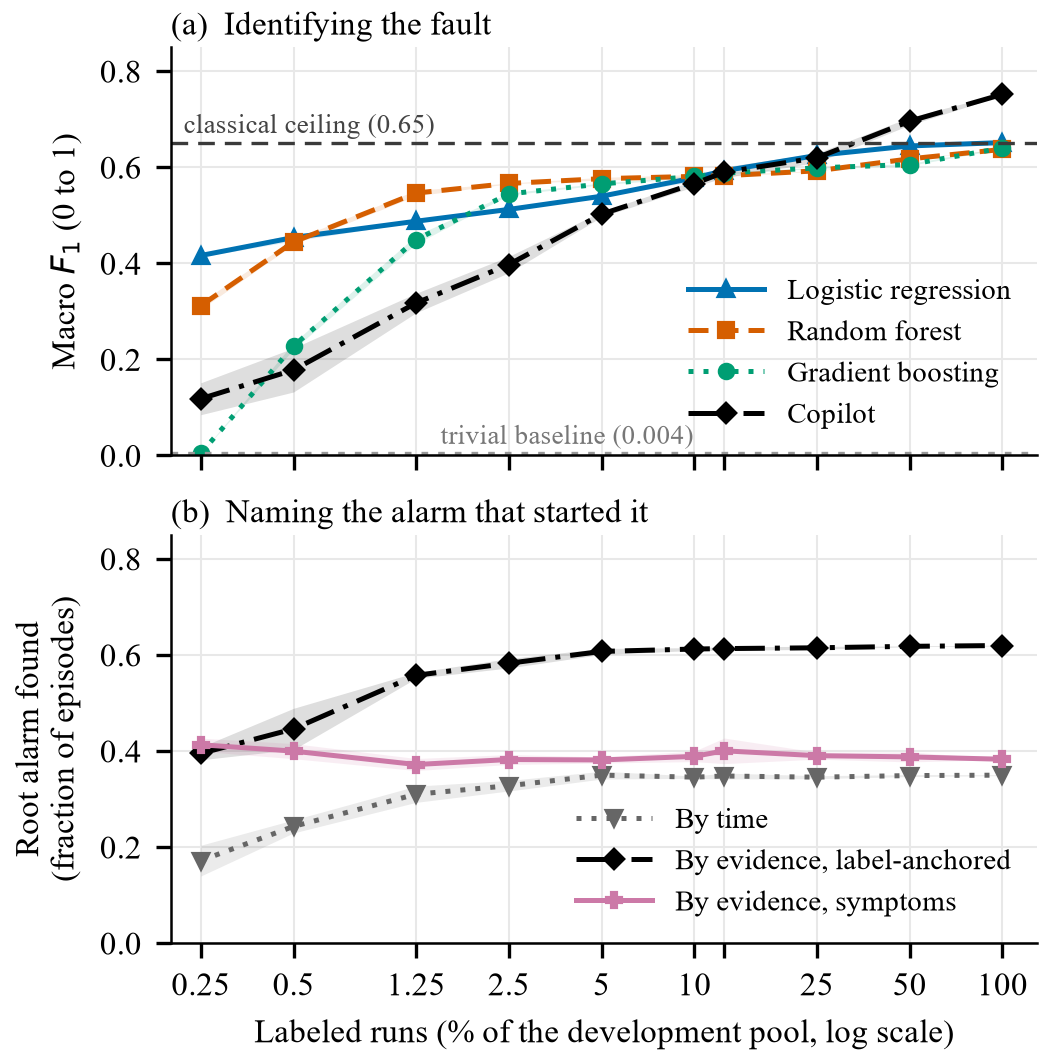
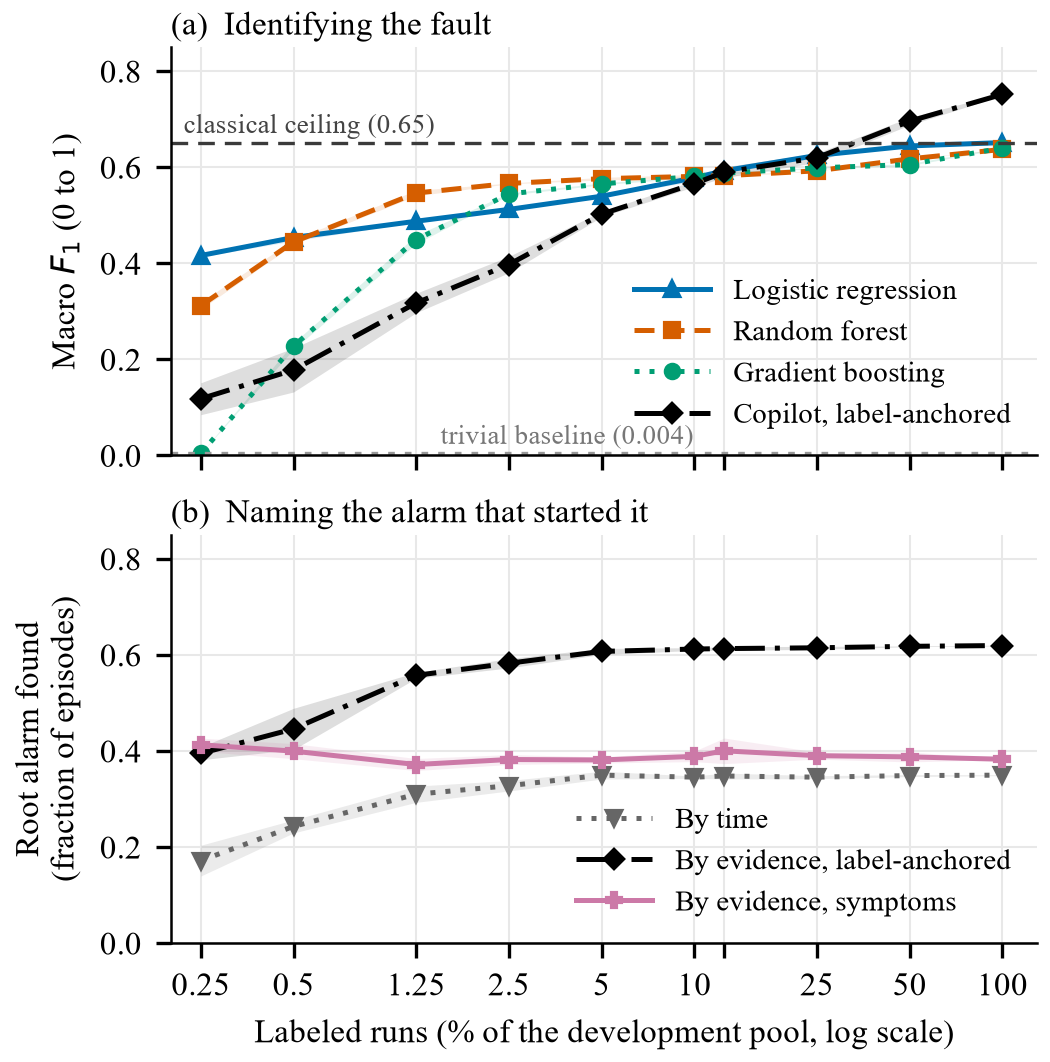
The repository follows the paper's new numbering, and siete.py runs again
On the advisor's recommendation the Experimental Configuration section became
subsection D of Proposed Method, with no sentence cut, so what the repository
called Section IV is Section III-D and what it called Section V is Section IV.
Twelve references were stale. The two dated blockquotes in PROTOCOLO are not
corrected in place, by that file's own rule; a note below them records the
mapping instead.

**siete.py was broken and nobody would have noticed until the next run.** It
looked for `\section{Experimental Configuration}`, which no longer exists, and
died with StopIteration. It now reads the subsection and stops at the next
section or subsection. `--check` passes: the seven sentences are unchanged, and
the direction still runs from the manuscript to PROTOCOLO.

**Figure 2 called the same arm by two names.** Panel (a) labelled the
label-anchored arm "Copilot" and that curve ends at 0.752, which is the
ablation's macro-F1, while Table II prints 0.741 for the row named Copilot v1.
Panel (b) already called it "By evidence, label-anchored". The curve is now
"Copilot, label-anchored" and the figure is regenerated; the manuscript's
caption says the same thing. No data moved: the panel plots the arm it always
plotted.

**The 0.003 bound is gone from the README's two places.** Measured on three
processors the worst move is 0.0034, the perceptron row on the Ryzen, deduced
from its paired difference against a classical row that reproduces byte for
[…]

Changed region(s): [[0.6095, 0.2486, 0.9752, 0.404]]

diff --git a/code/siete.py b/code/siete.py
@@ -1,5 +1,5 @@
 """
-The seven sentences of Section IV, copied from the manuscript into PROTOCOLO.md.
+The seven sentences of Section III-D, copied from the manuscript into PROTOCOLO.md.
 
 The direction matters and is the whole point: the .tex is the source, because it
 is the wording that gets reviewed and submitted, and PROTOCOLO receives. Copying
@@ -29,16 +29,17 @@ END = "<!-- END siete -->"
 CHECK = "--check" in sys.argv
 
 # "et al." ends in a period and is not the end of a sentence. Without this the
-# first sentence splits in two and Section IV looks like it has eight.
+# first sentence splits in two and the section looks like it has eight.
 ABREV = ("et al.", "Fig.", "Eq.", "cf.", "e.g.", "i.e.", "vs.", "approx.")
 MARCA = "\x00"
 
 
 def seccion_cuatro(tex):
-    """The body of Section IV, with the LaTeX taken out and nothing else changed."""
+    """The body of Section III-D, with the LaTeX taken out and nothing else changed."""
     L = tex.splitlines()
-    i = next(k for k, l in enumerate(L) if l.startswith("\\section{Experimental Configuration}"))
-    j = next(k for k, l in enumerate(L[i + 1:], i + 1) if l.startswith("\\section{"))
+    i = next(k for k, l in enumerate(L)
+             if l.startswith("\\subsection{Experimental Configuration}"))
+    j = next(k for k, l in enumerate(L[i + 1:], i + 1) if re.match(r"\\(sub)?section\{", l))
     t = " ".join(l for l in L[i + 1:j] if not l.strip().startswith("%"))
 
     t = re.sub(r"\\cite\{[^}]*\}", "", t)          # the protocol copy carries no citations
@@ -100,7 +101,7 @@ def main():
 
     if CHECK:
         ok = tenia == copia.strip()
-        print("las siete frases de PROTOCOLO %s la Seccion IV del manuscrito"
+        print("las siete frases de PROTOCOLO %s la Seccion III-D del manuscrito"
               % ("COINCIDEN con" if ok else "NO coinciden con"))
         if not ok:
             for a, b in zip(tenia.splitlines(), copia.splitlines()):

diff --git a/code/09_plot_label_efficiency.py b/code/09_plot_label_efficiency.py
@@ -2,7 +2,8 @@ r"""
 The main figure, in two panels.
 
 Panel A  macro-F1 against the percentage of labeled runs, for the three classical
-         models and for the copilot.
+         models and for the label-anchored arm of the copilot, which scores as
+         the ablation does.
 Panel B  root-alarm identification on the same budgets: ordering alarms by time,
          and ordering them by retrieved evidence in each of the two grounded arms.
 
@@ -39,7 +40,7 @@ STYLE = {
     "logistic": dict(color="#0072B2", marker="^", ls="-",             label="Logistic regression"),
     "rf":       dict(color="#D55E00", marker="s", ls=(0, (4, 2)),     label="Random forest"),
     "hgb":      dict(color="#009E73", marker="o", ls=(0, (1, 2)),     label="Gradient boosting"),
-    "copilot":  dict(color="#000000", marker="D", ls=(0, (6, 2, 1, 2)), label="Copilot"),
+    "copilot":  dict(color="#000000", marker="D", ls=(0, (6, 2, 1, 2)), label="Copilot, label-anchored"),
 }
 STYLE_B = {
     "chrono":   dict(color="#666666", marker="v", ls=(0, (1, 2)),     label="By time"),

diff --git a/code/resultados.py b/code/resultados.py
@@ -229,7 +229,7 @@ S = [
  # The latency is wall-clock and moves with the processor: the same copilot
  # measured 0.197, 0.123 and 0.254 ms on three machines on 2026-09-19. Three
  # decimals in prose would be a number a reproducer cannot match, which is the
- # reason Section IV stopped quoting training seconds two days earlier. The
+ # reason Section III-D stopped quoting training seconds two days earlier. The
  # exact value for this run stays in Table II and in cost_table.csv; the
  # sentence claims only what survives the move, and the point it carries is
  # that the loop costs nothing perceivable.

diff --git a/code/19_tabla2_json.py b/code/19_tabla2_json.py
@@ -61,7 +61,7 @@ out = {
         "seeds": SEEDS,
         "folds_per_seed": int(f1.groupby("seed").size().iloc[0]),
         "unit_of_repetition": "seed; each value is the mean over that seed's folds",
-        "dispersion_in_table": "std_over_folds, the convention Section IV declares",
+        "dispersion_in_table": "std_over_folds, the convention Section III-D declares",
         "partition": "frozen by simulation run, test set sealed",
         "reads": ["per_fold_f1.csv", "per_fold_recall3.csv", "cost_table.csv",
                   "agente_comparison.csv"],

diff --git a/README.md b/README.md
@@ -39,8 +39,9 @@ the paper, with a reason for each, rather than left for a reviewer to notice.
 <p align="center">
   <img src="results/label_efficiency_curve.png" width="70%"
        alt="Two panels: macro-F1 against the fraction of labeled runs for three
-            classical models and the copilot, and root-alarm identification on
-            the same budgets for the chronological ordering and two grounded arms">
+            classical models and the label-anchored arm of the copilot, and
+            root-alarm identification on the same budgets for the chronological
+            ordering and two grounded arms">
 </p>
 
 ## What we found
@@ -80,8 +81,8 @@ Three claims carry the paper, and each can be checked from a clone:
   the `±` printed beside every cell is the tolerance. It is the spread over the
   fifteen folds, and it is wider than anything a change of machine does. On one
   computer no metric moves at all. On a different processor the two neural rows
-  and the two agent rows move by up to `0.003`, which *What reproduces on another
-  machine* in `PROTOCOLO.md` measures and explains. The timings are wall-clock and
+  and the two agent rows move by less than the `±` beside them, which *What
+  reproduces on another machine* in `PROTOCOLO.md` measures and explains. The timings are wall-clock and
   differ on every run, including two on the same computer.
 - **The agent is rules, not a language model.** `results/agente_env.json` records
   `razona: rules (symptom retrieval); prompts/razona.txt is NOT executed`, and
@@ -117,8 +118,8 @@ Three claims carry the paper, and each can be checked from a clone:
   root-alarm identification on the same budgets, with everything retrained at each
   budget (`results/label_efficiency_curve.{csv,pdf,png}`,
   `results/label_efficiency_agent.csv`). The two panels answer different questions:
-  the rubric saturates with 2.5% of the labels, where the classifier is still at 53%
-  of its own ceiling.
+  root-alarm identification saturates with 2.5% of the labels, where the classifier
+  is still at 53% of its own ceiling.
 - **The architecture figure**: drawn by `13_plot_architecture.py` from
   `results/agente_env.json`, so the diagram cannot drift away from the constants
   the agent actually ran with (`results/architecture_loop.{pdf,png}`).
@@ -277,9 +278,8 @@ The values printed here are the reference machine's, the Intel Core i5-13420H
 of section 1, and every column has been checked on three different processors
 rather than assumed. The sizes, the four classical rows and the
 frozen partition hash come back identical on all three. The two neural rows and
-the two agent rows are identical on any one machine and move by up to `0.003` on
-another, comfortably inside the `±` beside them, which is what that column is
-for. `PROTOCOLO.md` gives the measured numbers.
+the two agent rows are identical on any one machine and move by less than the
+`±` beside them on another, which is what that column is for. `PROTOCOLO.md` gives the measured numbers.
 
 **The timings are not in this table on purpose.** Training seconds and inference
 milliseconds are wall-clock, they move with machine load even between two runs
@@ -348,7 +348,7 @@ code/                           every script; the project root is the folder abo
     resultados.py                   Table II, the Results paragraph and the rubric
                                     sentence, generated and spliced -> paper/tabla2.tex,
                                     paper/resultados.tex, paper/rubrica.tex
-    siete.py                        the seven sentences of Section IV, generated from
+    siete.py                        the seven sentences of Section III-D, generated from
                                     the manuscript into PROTOCOLO.md; needs the .tex,
                                     so it is not one of the 23 steps either
     checkpoint_datos.py             live data checkpoint (integrity evidence)
@@ -405,9 +405,9 @@ than positional, so this is the map:
 | Table II, the numbers | `results/tabla2.json` | `19_tabla2_json.py` |
 | Table II, the LaTeX | `paper/tabla2.tex`, spliced into the manuscript | `resultados.py` |
 | Table II, as a table you can open | `paper/tabla2.csv`, full precision | `resultados.py` |
-| Section V, the Results paragraph | `paper/resultados.tex`, spliced into the manuscript | `resultados.py` |
+| Section IV, the Results paragraph | `paper/resultados.tex`, spliced into the manuscript | `resultados.py` |
 | The same paragraph, sentence by sentence | `paper/resultados.md` | `resultados.py` |
-| Section V, the human-rubric sentence | `paper/rubrica.tex`, spliced into the manuscript | `resultados.py` |
+| Section IV, the human-rubric sentence | `paper/rubrica.tex`, spliced into the manuscript | `resultados.py` |
 | Figure 1, the architecture | `results/architecture_loop.pdf` | `13_plot_architecture.py` |
 | Figure 2, the main figure | `results/label_efficiency_curve.pdf` | `09_plot_label_efficiency.py` |
 | The curve behind Figure 2, classics | `results/label_efficiency_curve.csv` | `08_label_efficiency.py` |

diff --git a/PROTOCOLO.md b/PROTOCOLO.md
@@ -50,14 +50,14 @@ arms from `agente_comparison.csv`, and every cost cell from `17_cost_table.py`,
 which measures all of them in a single run on one machine. Best macro-$F_1$ and
 best Recall@3 are in bold, and they are the ablation's. The proposed method does
 not win the primary metric and the table says so: what retrieval buys is
-reported separately in Section V, not hidden here.
+reported separately in Section IV, not hidden here.
 
 A third arm was measured and is deliberately absent from Table II: `lookup`,
 which grounds the recommendation by citing the document of the predicted class.
 It shares the classifier with the ablation, so its macro-$F_1$ and Recall@3 are
 identical to the ablation row and adding it would repeat two numbers. It is
 reported where it differs, on grounding and root-alarm identification, in the
-text of Section V.
+text of Section IV.
 
 One cost column: it reads size / training seconds / amortized per-episode
 inference latency, all measured on the same run and the same machine. The key to
@@ -96,6 +96,13 @@ not named in the caption because it is named in its own column header.
 > $0.25$; the three arms declared before running; that root-alarm scoring
 > excludes IDV 16 to IDV 20; and that the reasoning step is rule-based rather
 > than a language model, which is what the zero-token claim rests on.
+
+> **Renumbered on 2026-09-22, and the note above is left as it was written.**
+> On the advisor's recommendation this material became subsection D of
+> Proposed Method, with no sentence cut. What the note calls Section IV is
+> now Section III-D, and what the rest of this file calls Section V is now
+> Section IV. The seven sentences below are unchanged, and `siete.py` reads
+> the subsection instead of the section.
 
 <!-- BEGIN siete (generated by siete.py from the .tex; do not edit by hand) -->
 *Experimental configuration.* (1) The primary dataset is the public TEP
@@ -1273,7 +1280,7 @@ provenance does not.
   `results/tabla2.json` and `resultados.py` renders and splices it, so no cell is
   typed anywhere. `python code/resultados.py --check` fails if the manuscript and
   the data disagree.
-- Section IV -> the seven sentences above and nothing else, regenerated from the
+- Section III-D -> the seven sentences above and nothing else, regenerated from the
   manuscript by `siete.py`, which aborts if the count is not seven.
 - Repository -> https://github.com/MarioElvir-UTH/tep-rootcause-copilot
 - PR-AUC -> `21_pr_auc.py` -> `results/pr_auc.csv`, the macro-averaged average
